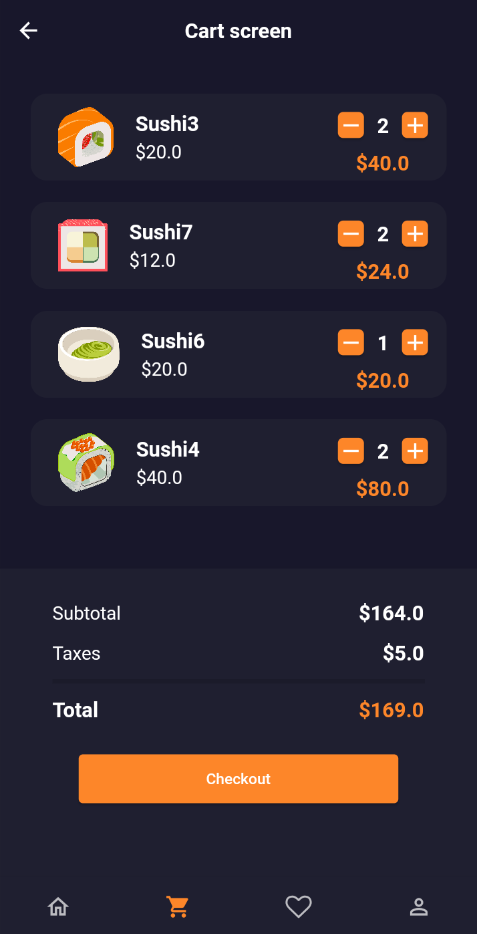
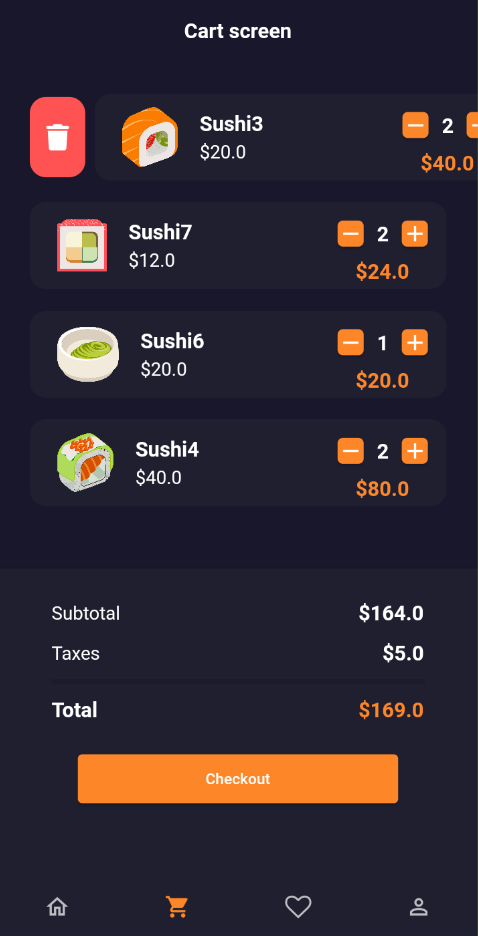
Swipe to dismiss

diff --git a/lib/src/view/screen/cart_screen.dart b/lib/src/view/screen/cart_screen.dart
@@ -6,6 +6,7 @@ import 'package:flutter_japanese_restaurant_app/src/view/widget/empty_widget.dar
 import 'package:get/get.dart';
 import '../../../core/app_style.dart';
 import '../../controller/food_controller.dart';
+import 'package:font_awesome_flutter/font_awesome_flutter.dart';
 
 final FoodController controller = Get.put(FoodController());
 
@@ -119,66 +120,84 @@ class CartScreen extends StatelessWidget {
       shrinkWrap: true,
       itemCount: controller.cartFood.length,
       itemBuilder: (_, index) {
-        return Container(
-          padding: const EdgeInsets.all(5),
-          decoration: BoxDecoration(
-            borderRadius: BorderRadius.circular(15),
-            color: controller.isLightTheme
-                ? Colors.white
-                : DarkThemeColor.primaryLight,
-          ),
-          child: Row(
-            mainAxisAlignment: MainAxisAlignment.spaceEvenly,
-            children: [
-              const SizedBox(width: 20),
-              Image.asset(controller.cartFood[index].image,
-                  scale: 10),
-              const SizedBox(width: 20),
-              Column(
-                crossAxisAlignment: CrossAxisAlignment.start,
-                children: [
-                  Text(
-                    controller.cartFood[index].name,
-                    style: Theme.of(context).textTheme.headline2,
-                  ),
-                  const SizedBox(height: 5),
-                  Text(
-                    "\$${controller.cartFood[index].price}",
-                    style: Theme.of(context).textTheme.headline5,
-                  ),
-                ],
-              ),
-              const Spacer(),
-              Column(
-                children: [
-                  CounterButton(
-                    onIncrementSelected: () =>
-                        controller.increaseItem(
-                            controller.cartFood[index]),
-                    onDecrementSelected: () =>
-                        controller.decreaseItem(
-                            controller.cartFood[index]),
-                    size: const Size(24, 24),
-                    padding: 0,
-                    label: Text(
-                      controller.cartFood[index].quantity
-                          .toString(),
-                      style: Theme.of(context)
-                          .textTheme
-                          .headline2,
+        return Dismissible(
+          onDismissed: (direction){
+            if(direction==DismissDirection.startToEnd) {
+              controller.removeCartItemAtSpecificIndex(index);
+            }
+          },
+          key: Key(controller.cartFood[index].name),
+          background: Row(children: [
+            Container(
+              padding: const EdgeInsets.symmetric(horizontal: 15,vertical: 25),
+                decoration: BoxDecoration(
+                    color: Colors.redAccent,
+                    borderRadius: BorderRadius.circular(15)
+                ),
+                child: const FaIcon(FontAwesomeIcons.trash)
+            ),
+          ],),
+          child: Container(
+            padding: const EdgeInsets.all(5),
+            decoration: BoxDecoration(
+              borderRadius: BorderRadius.circular(15),
+              color: controller.isLightTheme
+                  ? Colors.white
+                  : DarkThemeColor.primaryLight,
+            ),
+            child: Row(
+              mainAxisAlignment: MainAxisAlignment.spaceEvenly,
+              children: [
+                const SizedBox(width: 20),
+                Image.asset(controller.cartFood[index].image,
+                    scale: 10),
+                const SizedBox(width: 20),
+                Column(
+                  crossAxisAlignment: CrossAxisAlignment.start,
+                  children: [
+                    Text(
+                      controller.cartFood[index].name,
+                      style: Theme.of(context).textTheme.headline2,
                     ),
-                  ),
-                  Text("\$${controller.calculatePricePerEachItem(
-                      controller.cartFood[index])}"
-                    ,
-                    style: h2Style.copyWith(
-                        color: LightThemeColor.accent),
-                  )
-                ],
-              )
-            ],
-          ),
-        ).fadeAnimation(index * 0.6);
+                    const SizedBox(height: 5),
+                    Text(
+                      "\$${controller.cartFood[index].price}",
+                      style: Theme.of(context).textTheme.headline5,
+                    ),
+                  ],
+                ),
+                const Spacer(),
+                Column(
+                  children: [
+                    CounterButton(
+                      onIncrementSelected: () =>
+                          controller.increaseItem(
+                              controller.cartFood[index]),
+                      onDecrementSelected: () =>
+                          controller.decreaseItem(
+                              controller.cartFood[index]),
+                      size: const Size(24, 24),
+                      padding: 0,
+                      label: Text(
+                        controller.cartFood[index].quantity
+                            .toString(),
+                        style: Theme.of(context)
+                            .textTheme
+                            .headline2,
+                      ),
+                    ),
+                    Text("\$${controller.calculatePricePerEachItem(
+                        controller.cartFood[index])}"
+                      ,
+                      style: h2Style.copyWith(
+                          color: LightThemeColor.accent),
+                    )
+                  ],
+                )
+              ],
+            ),
+          ).fadeAnimation(index * 0.6),
+        );
       },
       separatorBuilder: (BuildContext context, int index) {
         return const Padding(padding: EdgeInsets.all(10));

diff --git a/lib/src/view/widget/food_list_view.dart b/lib/src/view/widget/food_list_view.dart
@@ -28,25 +28,25 @@ class FoodListView extends StatelessWidget {
         itemBuilder: (_, index) {
           Food food =
               isReversedList ? foods.reversed.toList()[index] : foods[index];
-          return Container(
-            width: 160,
-            padding: const EdgeInsets.all(10),
-            decoration: BoxDecoration(
-                color: controller.isLightTheme
-                    ? Colors.white
-                    : DarkThemeColor.primaryLight,
-                borderRadius: const BorderRadius.all(Radius.circular(20))),
-            child: Padding(
+          return GestureDetector(
+            onTap: (){
+              Navigator.push(
+                context,
+                MaterialPageRoute(
+                  builder: (_) => FoodDetailScreen(food: food),
+                ),
+              );
+            },
+            child: Container(
+              width: 160,
               padding: const EdgeInsets.all(10),
-              child: GestureDetector(
-                onTap: () {
-                  Navigator.push(
-                    context,
-                    MaterialPageRoute(
-                      builder: (_) => FoodDetailScreen(food: food),
-                    ),
-                  );
-                },
+              decoration: BoxDecoration(
+                  color: controller.isLightTheme
+                      ? Colors.white
+                      : DarkThemeColor.primaryLight,
+                  borderRadius: const BorderRadius.all(Radius.circular(20))),
+              child: Padding(
+                padding: const EdgeInsets.all(10),
                 child: Column(
                   mainAxisAlignment: MainAxisAlignment.spaceBetween,
                   children: [

diff --git a/lib/src/controller/food_controller.dart b/lib/src/controller/food_controller.dart
@@ -94,6 +94,12 @@ class FoodController extends GetxController {
     }
   }
 
+  removeCartItemAtSpecificIndex(int index){
+    cartFood.removeAt(index);
+    calculateTotalPrice();
+    update();
+  }
+
 
   void changeTheme() {
     if (theme.value == AppTheme.darkTheme) {
